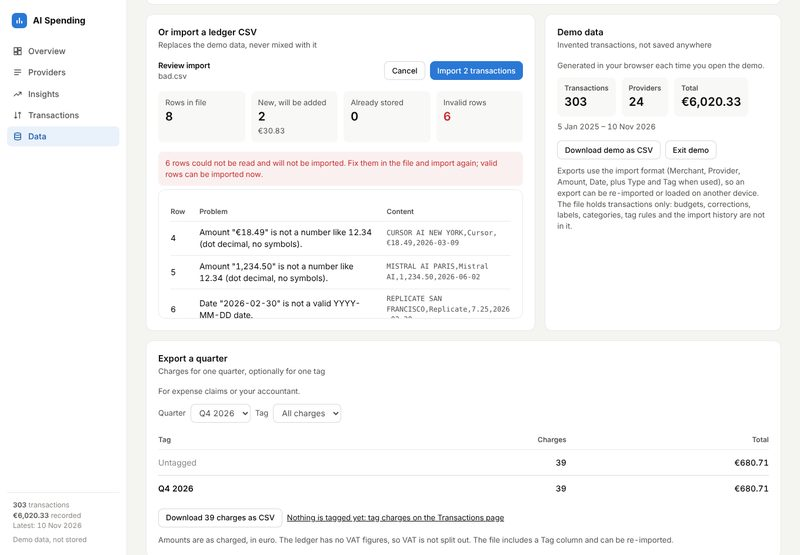
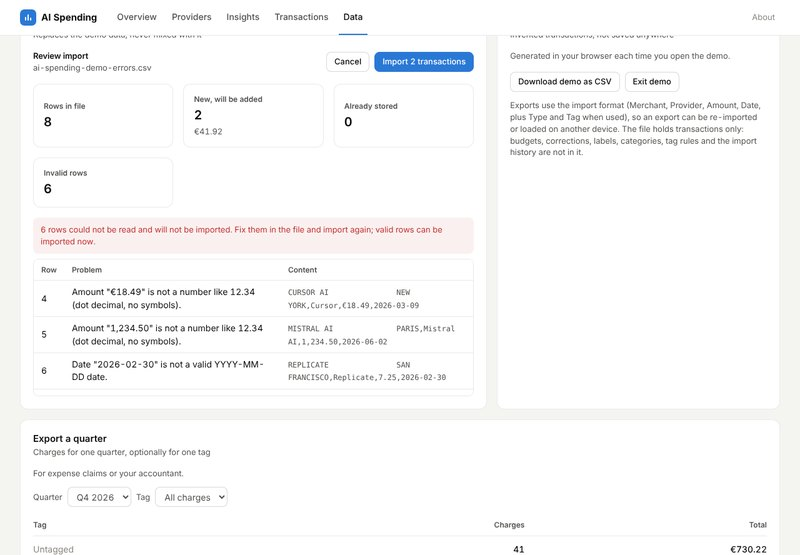
README, changelog and screenshots for the new shell
Claude-Session: https://claude.ai/code/session_01Qfp4rLyXRfcCbxc21jCuL9

diff --git a/README.md b/README.md
@@ -20,10 +20,10 @@ npm install
 npm run dev
 ```
 
-Open http://localhost:5173 for the landing page, then **Explore demo data** or **Import your own data**, or go straight to the app at http://localhost:5173/app.html (on Vercel: `/app`). Old links such as `/#/subscriptions` and `/#/trends` still work: the landing page sends them to the app, which opens Overview and Insights. On first visit the app shows the welcome screen:
+Open http://localhost:5173. With no data in the browser the app opens on the **Welcome** page: **Explore demo data** or **Import your own data**. Once data exists the app opens on Overview, and **About** in the top bar brings the Welcome page back at any time. Old links such as `/app`, `/app.html`, `/#/subscriptions` and `/#/trends` still work: they forward to `/` and open Overview and Insights. Your ways in:
 
 - **Explore demo data** generates invented data in memory (see [Demo mode](#demo-mode)). Nothing is saved.
-- **Bank or card statements**: drop the exports you already download from your bank or card; the app picks out the AI charges (see [Statement extractor](#statement-extractor)).
+- **Bank or card statements** (**Import your own data** opens the Data page): drop the exports you already download from your bank or card; the app picks out the AI charges (see [Statement extractor](#statement-extractor)).
 - **Ledger CSV**: import a file that is already in the ledger format. **Download example CSV** saves one to look at.
 
 On later visits your stored data loads automatically. To start over, use **Data → Clear local data**.
@@ -47,17 +47,17 @@ npm run licenses:check  # fail on a non-permissive dependency license or an out-
 | **Providers** (who) | All providers with all-time total, spending in the selected period, a **trend arrow** (the last 3 complete months against the 3 before, one-time charges left out; an arrow only when the change is more than 5% and more than €5, otherwise flat), share, transaction count, and first / most recent charge. Search, sort any column, and filter by category and commitment type. Click a provider for its detail page, laid out like the Overview: a chart card (that provider's months for the selected year, following the period picker; click a bar to pick that month; the charges still due stack on the current month, and the axis starts at the provider's first charge) beside an **At a glance** card (all-time total with rank and share, charges, typical charge, last charge, and the provider's settings: a tag for new charges and a category). Below, its **charge types** (the one place to say what each is): a row shows the label or statement description, what it is read as, charges, total, last charge and status pills ("App's guess" until you confirm it; price change, overlap, stopped); open a row to change its label or type and to see its schedule, next charge, price history, overlap and whether anything still charges. Charge types with the same label are one plan. Then its full transaction history. A "To review" column shows how many charge types you have not confirmed yet. |
 | **Transactions** | Searchable, sortable table with original merchant descriptors and amounts. Filter by provider and date range (or "Use selected period"). Filters live in the URL, so provider pages and the overview link straight into a filtered view. Click a row to jump to its provider. Each charge can carry a tag (Personal, Business, a client), singly or for everything shown at once, and a charge imported by mistake can be deleted (with a confirmation). The type of a charge is shown but not changed here: it links to the provider page. |
 | **Insights** | What the data says, in four groups. **Patterns**: monthly spending with a 3-month average, subscription, usage and one-time over time ("more tools or more usage?"), and recurring-looking patterns. **Shifts**: price changes ("went from €22.49 to €109.38 in Jun") and stopped subscriptions with a check that nothing still charges. **Suggestions**: overlapping tools ("2 chat assistants · €130/month combined") and what ending each would save. **Comparisons**: year-over-year by calendar month, yearly totals with like-for-like comparison, biggest increases and decreases by provider (last 3 months vs the 3 before, or year to date vs last year), and provider concentration. Anything the app worked out is marked **App's read**, with the reasoning behind a "How are these found?" toggle. See [Insights](#insights). |
-| **Data** | Import more CSVs (with a review step), export all transactions as CSV (budgets, corrections, labels, categories and tag rules are not in the file), export one quarter (optionally one tag) for expense claims, clear local data (requires typing `DELETE`), import history, and the duplicate policy in plain language. |
+| **Data** | A row of tiles (transactions, total recorded, latest import, where the data is stored), then import more CSVs (with a review step), export all transactions as CSV (budgets, corrections, labels, categories and tag rules are not in the file), export one quarter (optionally one tag) for expense claims, clear local data (requires typing `DELETE`), import history, and the duplicate policy in plain language. |
 
 **The ledger is fact, everything else is inference.** Amounts, dates and providers are shown plainly. Anything the app worked out (a subscription, a next charge, a stopped one, an estimate, a charge's type) is marked as the app's read or an estimate, and the reasoning is one click away.
 
-Works on desktop and mobile, in light and dark mode. Provider colours are assigned once by all-time spend and stay the same across every chart; the 6 largest providers get their own colour and the rest share a grey "Other".
+Works on desktop and mobile, in light and dark mode. A top bar carries the five pages and **About** (the Welcome page); on a phone the five pages are a bottom tab bar. Every page is built from the same few components (card, stat tile, pill, provider avatar, table, button, input, segmented control) in `src/components/ui.tsx`, with the colours, type sizes and spacing in `src/tokens.css`. Provider colours are assigned once by all-time spend and stay the same across every chart; the 6 largest providers get their own colour and the rest share a grey "Other".
 
 ## Statement extractor
 
 Most people do not have a clean ledger; they have bank and card statements. The extractor turns those into ledger rows, in the browser:
 
-1. **Read.** Drop one or more files on the welcome screen or the Data page.
+1. **Read.** Drop one or more files on the Data page.
    - **Excel (.xlsx) or CSV** exports: the header row and columns are found by name (English, Dutch, German, French), including the American Express transaction export and common bank CSVs (Revolut, ING-style "Af/Bij"). Day/month order and whether charges are positive or negative are worked out from the data.
    - **Revolut PDF statements**: only settled *Account transactions* are used; Pending, Reverted, Pockets and Deposit sections are skipped.
    - Lines that appear in two overlapping files are counted once. Old `.xls`, scanned PDFs and other banks' PDFs are refused with a clear message (export CSV instead).
@@ -245,7 +245,7 @@ Options: `--end YYYY-MM-DD` (default today), `--seed N` (default 2026), `--out D
 
 ## Ownership
 
-AI Spending Tracker is a product of **[NeotixHQ](https://neotixhq.com/)**, a brand legally owned by **[NuCielo ICT B.V.](https://nucielo.io/)** © 2026 NuCielo ICT B.V. The wording is set once in `src/content/site.ts` and shown in the landing page footer, the app footer and the About card (not in the privacy statement). NuCielo ICT B.V. is the only legal entity; NeotixHQ is a brand of it, not a separate legal entity, so the privacy statement names "NuCielo ICT B.V., trading as NeotixHQ" as the operator, with `info@neotixhq.com` as the contact. Ownership and licence are separate: the copyright holder is NuCielo ICT B.V., and the code is released under the Apache License 2.0 (see Version and licenses).
+AI Spending Tracker is a product of **[NeotixHQ](https://neotixhq.com/)**, a brand legally owned by **[NuCielo ICT B.V.](https://nucielo.io/)** © 2026 NuCielo ICT B.V. The wording is set once in `src/content/site.ts` and shown in the no-script text, the app footer and the About card on the Welcome page (not in the privacy statement). NuCielo ICT B.V. is the only legal entity; NeotixHQ is a brand of it, not a separate legal entity, so the privacy statement names "NuCielo ICT B.V., trading as NeotixHQ" as the operator, with `info@neotixhq.com` as the contact. Ownership and licence are separate: the copyright holder is NuCielo ICT B.V., and the code is released under the Apache License 2.0 (see Version and licenses).
 
 ## Version and licenses
 
@@ -257,7 +257,7 @@ Versions follow Semantic Versioning. Changes are listed in [CHANGELOG.md](CHANGE
 
 | | |
 |---|---|
-| ![Welcome](docs/screenshots/00-welcome.jpg) Welcome screen | ![Year](docs/screenshots/02-overview-year.jpg) Overview, year view |
+| ![Welcome](docs/screenshots/00-welcome.jpg) Welcome page | ![Year](docs/screenshots/02-overview-year.jpg) Overview, year view |
 | ![Providers](docs/screenshots/03-providers.jpg) Providers: trend and filters | ![Provider](docs/screenshots/04-provider-detail.jpg) Provider detail: chart, at a glance and charge types |
 | ![Transactions](docs/screenshots/05-transactions-filtered.jpg) Filtered transactions | ![Insights](docs/screenshots/06-insights.jpg) Insights: patterns |
 | ![Comparisons](docs/screenshots/07-insights-comparisons.jpg) Insights: comparisons | ![Import review](docs/screenshots/08-import-review-errors.jpg) Import review with errors |
@@ -274,17 +274,17 @@ All screenshots show the synthetic demo data.
 
 | Address | What | Source |
 |---|---|---|
-| `/` | Landing page: what it is, privacy up front, screenshots, FAQ. Static HTML, no scripts except a tiny redirect for old `/#/…` links. | `index.html`, `src/content/landing.ts` |
-| `/app` (`app.html`) | The tracker. `/app?demo=1` starts the demo. | `app.html`, `src/` |
+| `/` | The app. With no data it opens on the Welcome page (what it does, demo or import, how it works, privacy, questions); **About** opens it any time. `/?demo=1` starts the demo. The search and social tags are in `index.html`, and a browser without scripts sees the same headline and privacy sentence. | `index.html`, `src/pages/Welcome.tsx`, `src/content/welcome.ts` |
+| `/app` (`app.html`) | The old address of the tracker. Forwards to `/`, keeping the query and the `#/…` part. | `app.html`, `src/legacyApp.ts` |
 | `/privacy` (`privacy.html`) | The privacy statement (published 2026-11-10; set `PRIVACY_IS_DRAFT` back to true to show a draft notice and `noindex` again). Static HTML. | `privacy.html`, `src/content/privacy.ts` |
 
-The landing page and the privacy page are generated at build time from `src/content/`, so the wording lives in one file. The privacy statement is checked against the code by `src/content/privacy.test.ts`. The production address is `https://ai-spend-tracker.neotixhq.com`, set once in `src/content/site.ts`: the landing page's canonical link and social card, `robots.txt` and `sitemap.xml` use it (a test keeps them in step). The sitemap lists only the landing page: the app is `noindex`, and so is the privacy page whenever it is marked as a draft. Set `SITE_URL` to build with another address.
+The privacy page, the tags and the no-script text of `index.html` are generated at build time from `src/content/`, so the wording lives in one file. The privacy statement is checked against the code by `src/content/privacy.test.ts`. The production address is `https://ai-spend-tracker.neotixhq.com`, set once in `src/content/site.ts`: the Welcome page's canonical link and social card, `robots.txt` and `sitemap.xml` use it (a test keeps them in step). The sitemap lists only `/`: the old `/app` address is `noindex`, and so is the privacy page whenever it is marked as a draft. Set `SITE_URL` to build with another address.
 
 ## Project layout
 
 ```
 src/
-  content/        landing page and privacy statement text, with tests
+  content/        Welcome page and privacy statement text, with tests
   lib/            pure logic, no React
     money.ts        cents parsing/formatting
     dates.ts        YYYY-MM-DD / YYYY-MM helpers

diff --git a/CHANGELOG.md b/CHANGELOG.md
@@ -5,6 +5,9 @@ All notable changes to this project are listed here. The format follows [Keep a 
 ## [Unreleased]
 
 ### Changed
+- Shared UI standards and a new shell. Design tokens live in one file (`src/tokens.css`) used by the app and the static pages: four text colours, an 8/12/16/24/32 spacing scale, no red or green for spending (an exceeded budget is amber). New shared components: `Button` (primary, secondary, text, danger), `Input`, `Select`, `Field`, `Table`, `Descriptor` (monospace statement text), `StatTile` with an optional sparkline, `ProviderAvatar` (initials on the provider colour) and `ChangeArrow`. Every page uses them. Provider pages no longer show the review line; the Providers list calls its pill "N to check".
+- Navigation is a top bar (logo, Overview, Providers, Insights, Transactions, Data, and About on the right). On a phone the five pages are a bottom tab bar. The old rail footer (transactions, total recorded, latest import, where data is stored) is a row of tiles on the Data page; the Overview header says when the last import was.
+- One Welcome page replaces the static landing page and the welcome screen. The app is served from `/` and opens on it when the browser has no data; **About** opens it any time, and the logo goes to Overview (with data) or Welcome (without). `/app` and `/app.html` forward to `/`. The landing page screenshots are gone.
 - Overview is chart first. The five summary cards, the "In progress" pill and the "charge types still follow the app's suggestion" line are gone. A header over the chart gives the total ("November 2026 so far", "October 2026 total", "2026 so far", "All time") and, for the month in progress, "at least €X by month end" with a hatched swatch. The "so far" estimate card and the Monthly budget card are replaced by plain rows beside the chart: Compared with, Still due this month, and Budget.
 - The chart fills its card. The selected month is solid and the others faded; for the month in progress the charges still due are stacked on its bar as hatched segments in each series' colour, with a "≥ €X" label. The y-axis ends just above the tallest bar, projection included.
 - Clicking a bar now changes the period, like the date selector does (Year view switches to Month view for that month). This reverses the previous release, where a bar opened a side sheet of that month's transactions. The side sheet is removed; the way into a month's transactions is the "Charges in <month>" card (top 5, Show all, Open in Transactions). The closed-month card (a month's total split by commitment type) is removed with it; the Commitment grouping of the chart shows the same split.
